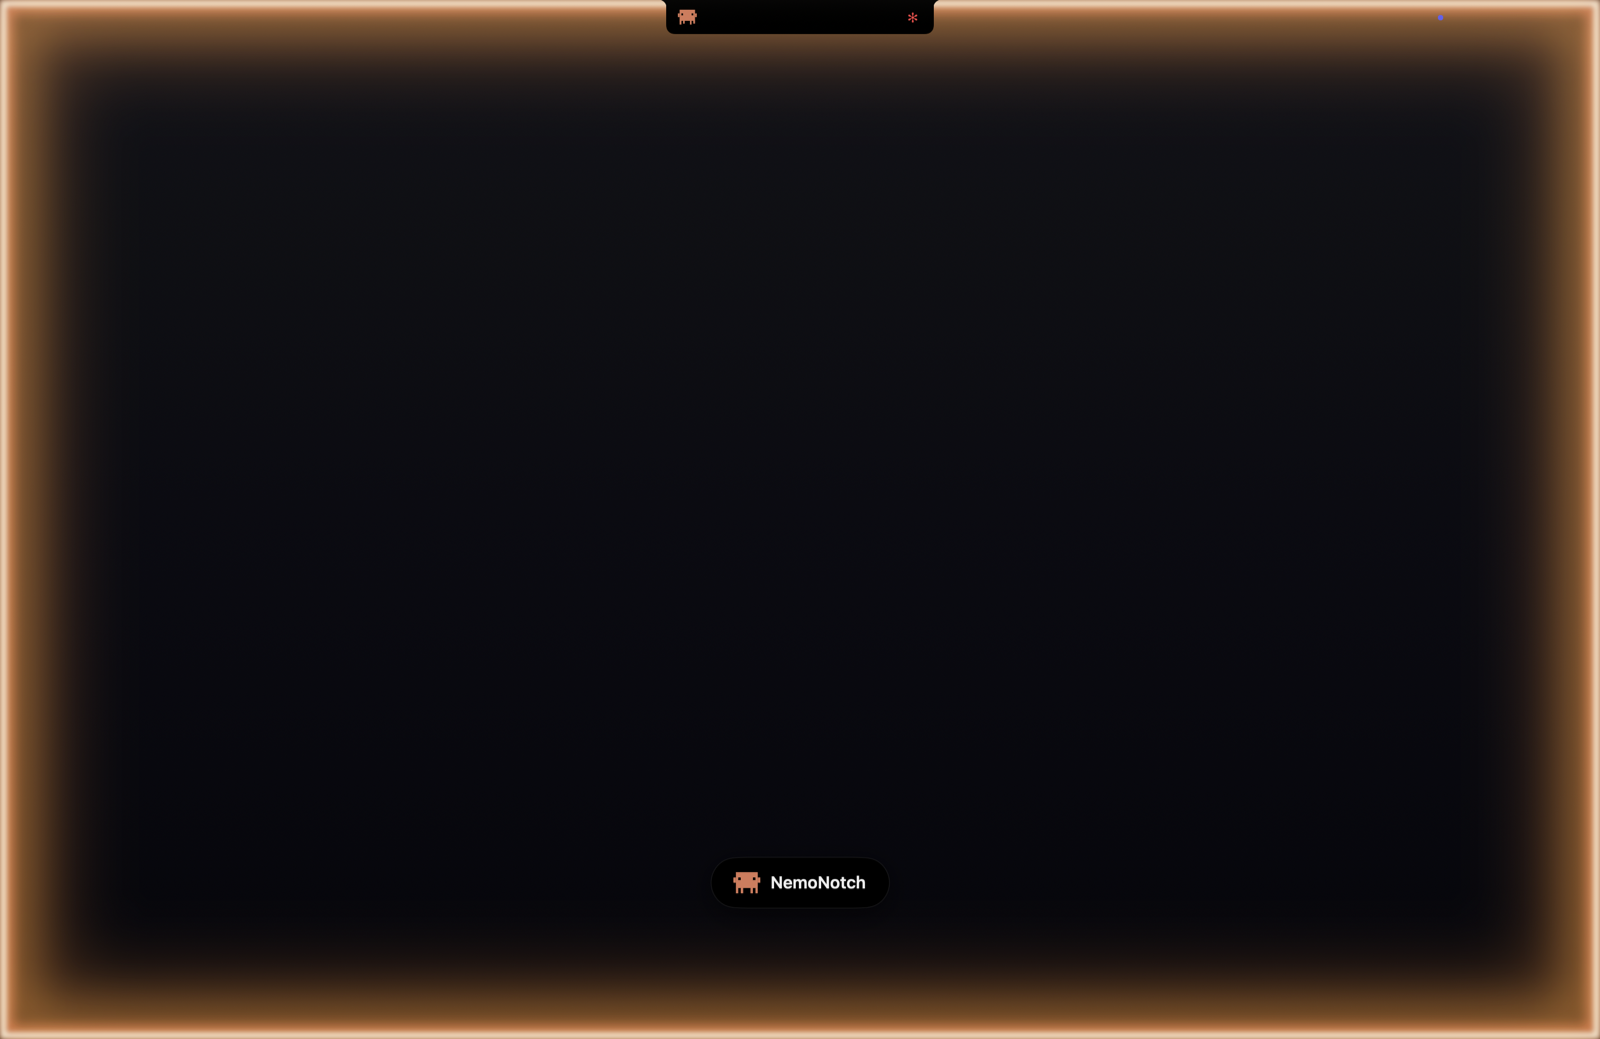
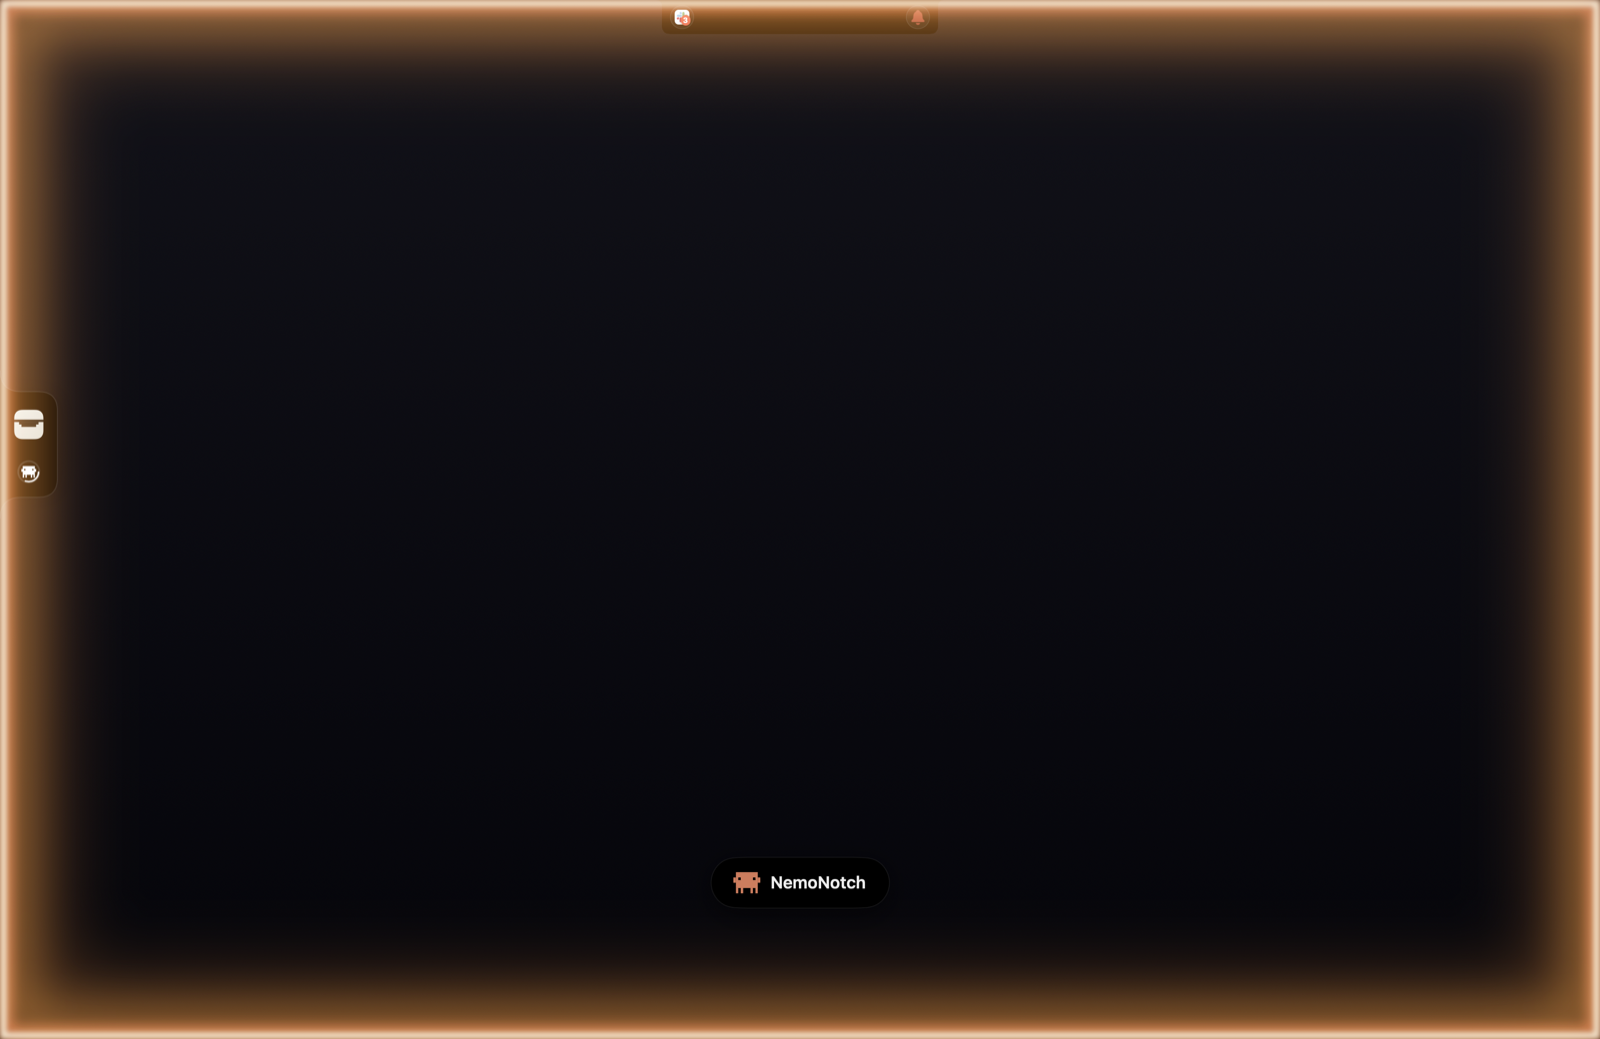
fix(uitest): screenshot scripts build here and always restore the app; flash shot shows the AI bar
- Both uitest screenshot scripts built without the ad-hoc signing flags
  build.sh/test.sh pass, so on this machine the Debug build failed
  ('No signing certificate Mac Development') — and with set -e the
  script exited after it had quit the user's NemoNotch, never relaunching
  it. Now: signing flags added, build output to build/uitest-build.log
  with the errors printed on failure, and an EXIT/INT/TERM trap that kills
  the uitest instance and relaunches the user's app on every path.
- The --flash backdrop sat above the AI status bar (.statusBar + 7 vs
  .statusBar), hiding it. It now shares the bar's level (still above the
  menu bar) and the bar is re-fronted over it.
- docs/images/completion-flash.png regenerated: glow, toast and the AI
  status bar as the product looks now.

Changed region(s): [[0.4062, 0.0, 0.5938, 0.0308], [0.0, 0.3696, 0.0312, 0.462]]

diff --git a/NemoNotch/NemoNotchApp.swift b/NemoNotch/NemoNotchApp.swift
@@ -245,6 +245,9 @@ final class AppDelegate: NSObject, NSApplicationDelegate {
             // --flash:在面板/glow 之下铺一层暗色背景窗,让全屏 glow 在截图里清晰可见。
             if UITestMode.flash, let target {
                 uiTestFlashBackdrop = makeUITestFlashBackdrop(on: target)
+                // The backdrop shares the AI status bar's level; re-front the
+                // bar so it shows above it, as on a real desktop.
+                deps.edgeBar.applyDock()
             }
 
             NSApp.activate(ignoringOtherApps: true)
@@ -265,7 +268,8 @@ final class AppDelegate: NSObject, NSApplicationDelegate {
         }
     }
 
-    /// 截图专用:覆盖整屏的暗色渐变背景窗,层级压在 glow / 面板之下。
+    /// 截图专用:覆盖整屏的暗色渐变背景窗,层级压在 glow / 面板之下,
+    /// 也在 AI 状态栏之下(同为 .statusBar,栏随后再置前)——但仍盖住菜单栏(24)。
     private func makeUITestFlashBackdrop(on screen: NSScreen) -> NSWindow {
         let window = NSWindow(
             contentRect: screen.frame,
@@ -275,7 +279,7 @@ final class AppDelegate: NSObject, NSApplicationDelegate {
         )
         window.isOpaque = true
         window.hasShadow = false
-        window.level = .statusBar + 7 // 低于 glow / 面板(statusBar + 8)
+        window.level = .statusBar // 低于 glow / 面板(statusBar + 8),与 AI 状态栏同层
         window.ignoresMouseEvents = true
         window.collectionBehavior = [.fullScreenAuxiliary, .stationary, .canJoinAllSpaces, .ignoresCycle]
         let backdrop = LinearGradient(
